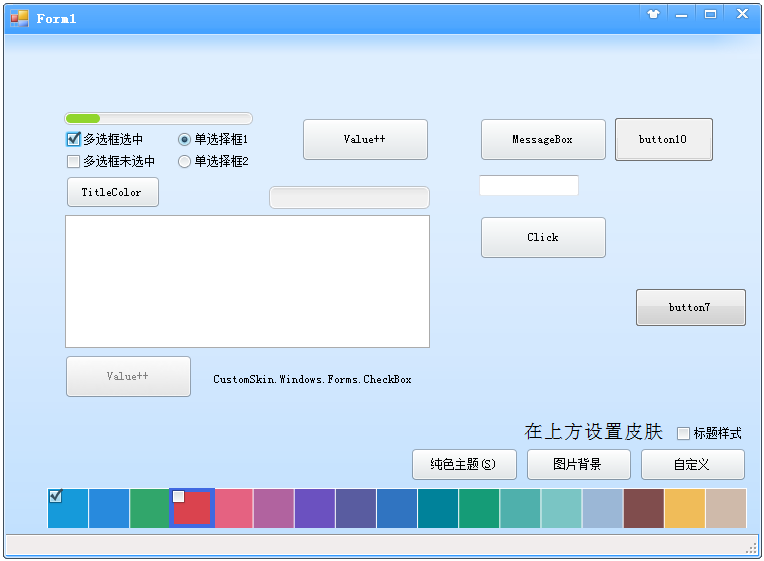
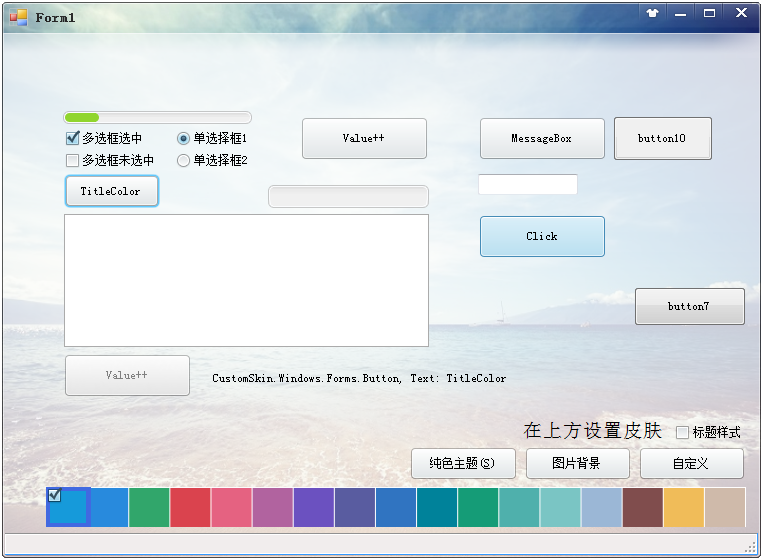
添加展示图片

diff --git a/CustomSkin/WindowsFormsApplication1/Properties/Resources.Designer.cs b/CustomSkin/WindowsFormsApplication1/Properties/Resources.Designer.cs
@@ -63,9 +63,9 @@ namespace WindowsFormsApplication1.Properties {
         /// <summary>
         ///   查找 System.Drawing.Bitmap 类型的本地化资源。
         /// </summary>
-        internal static System.Drawing.Bitmap _0435032 {
+        internal static System.Drawing.Bitmap _1 {
             get {
-                object obj = ResourceManager.GetObject("_0435032", resourceCulture);
+                object obj = ResourceManager.GetObject("_1", resourceCulture);
                 return ((System.Drawing.Bitmap)(obj));
             }
         }
@@ -73,9 +73,9 @@ namespace WindowsFormsApplication1.Properties {
         /// <summary>
         ///   查找 System.Drawing.Bitmap 类型的本地化资源。
         /// </summary>
-        internal static System.Drawing.Bitmap _11 {
+        internal static System.Drawing.Bitmap _2 {
             get {
-                object obj = ResourceManager.GetObject("_11", resourceCulture);
+                object obj = ResourceManager.GetObject("_2", resourceCulture);
                 return ((System.Drawing.Bitmap)(obj));
             }
         }
@@ -83,9 +83,9 @@ namespace WindowsFormsApplication1.Properties {
         /// <summary>
         ///   查找 System.Drawing.Bitmap 类型的本地化资源。
         /// </summary>
-        internal static System.Drawing.Bitmap _201111 {
+        internal static System.Drawing.Bitmap _3 {
             get {
-                object obj = ResourceManager.GetObject("_201111", resourceCulture);
+                object obj = ResourceManager.GetObject("_3", resourceCulture);
                 return ((System.Drawing.Bitmap)(obj));
             }
         }
@@ -93,9 +93,9 @@ namespace WindowsFormsApplication1.Properties {
         /// <summary>
         ///   查找 System.Drawing.Bitmap 类型的本地化资源。
         /// </summary>
-        internal static System.Drawing.Bitmap _2014052116301447990 {
+        internal static System.Drawing.Bitmap _4 {
             get {
-                object obj = ResourceManager.GetObject("_2014052116301447990", resourceCulture);
+                object obj = ResourceManager.GetObject("_4", resourceCulture);
                 return ((System.Drawing.Bitmap)(obj));
             }
         }
@@ -103,9 +103,9 @@ namespace WindowsFormsApplication1.Properties {
         /// <summary>
         ///   查找 System.Drawing.Bitmap 类型的本地化资源。
         /// </summary>
-        internal static System.Drawing.Bitmap _353321 {
+        internal static System.Drawing.Bitmap _5 {
             get {
-                object obj = ResourceManager.GetObject("_353321", resourceCulture);
+                object obj = ResourceManager.GetObject("_5", resourceCulture);
                 return ((System.Drawing.Bitmap)(obj));
             }
         }
@@ -113,9 +113,29 @@ namespace WindowsFormsApplication1.Properties {
         /// <summary>
         ///   查找 System.Drawing.Bitmap 类型的本地化资源。
         /// </summary>
-        internal static System.Drawing.Bitmap _503b6b1f7ce33 {
+        internal static System.Drawing.Bitmap _6 {
             get {
-                object obj = ResourceManager.GetObject("_503b6b1f7ce33", resourceCulture);
+                object obj = ResourceManager.GetObject("_6", resourceCulture);
+                return ((System.Drawing.Bitmap)(obj));
+            }
+        }
+        
+        /// <summary>
+        ///   查找 System.Drawing.Bitmap 类型的本地化资源。
+        /// </summary>
+        internal static System.Drawing.Bitmap _7 {
+            get {
+                object obj = ResourceManager.GetObject("_7", resourceCulture);
+                return ((System.Drawing.Bitmap)(obj));
+            }
+        }
+        
+        /// <summary>
+        ///   查找 System.Drawing.Bitmap 类型的本地化资源。
+        /// </summary>
+        internal static System.Drawing.Bitmap _8 {
+            get {
+                object obj = ResourceManager.GetObject("_8", resourceCulture);
                 return ((System.Drawing.Bitmap)(obj));
             }
         }
@@ -136,26 +156,6 @@ namespace WindowsFormsApplication1.Properties {
         internal static System.Drawing.Bitmap color {
             get {
                 object obj = ResourceManager.GetObject("color", resourceCulture);
-                return ((System.Drawing.Bitmap)(obj));
-            }
-        }
-        
-        /// <summary>
-        ///   查找 System.Drawing.Bitmap 类型的本地化资源。
-        /// </summary>
-        internal static System.Drawing.Bitmap d2fdsf3 {
-            get {
-                object obj = ResourceManager.GetObject("d2fdsf3", resourceCulture);
-                return ((System.Drawing.Bitmap)(obj));
-            }
-        }
-        
-        /// <summary>
-        ///   查找 System.Drawing.Bitmap 类型的本地化资源。
-        /// </summary>
-        internal static System.Drawing.Bitmap dfgfdg {
-            get {
-                object obj = ResourceManager.GetObject("dfgfdg", resourceCulture);
                 return ((System.Drawing.Bitmap)(obj));
             }
         }

diff --git a/CustomSkin/WindowsFormsApplication1/Form1.cs b/CustomSkin/WindowsFormsApplication1/Form1.cs
@@ -6,7 +6,7 @@ using CustomSkin.Windows.Forms;
 using WindowsFormsApplication1.Properties;
 
 namespace WindowsFormsApplication1
-{  
+{
     public partial class Form1 : FormBase
     {
         public Form1()
@@ -20,7 +20,7 @@ namespace WindowsFormsApplication1
             if (this.TitleColor == Color.Black)
                 this.TitleColor = Color.White;
             else
-                this.TitleColor = Color.Black; 
+                this.TitleColor = Color.Black;
         }
 
         private void button2_Click(object sender, EventArgs e)
@@ -51,14 +51,14 @@ namespace WindowsFormsApplication1
             //foreach (string str in Directory.GetFiles(Application.StartupPath + "\\Image", "*.*", SearchOption.AllDirectories))
             //    Res.Current.ImageList.Add(Image.FromFile(str));
             Res.Current.ImageList.AddRange(new Image[] { 
-            Resources._0435032,
-            Resources._11,
-            Resources._201111,
-            Resources._2014052116301447990,
-            Resources._353321,
-            Resources._503b6b1f7ce33,
-            Resources.d2fdsf3,
-            Resources.dfgfdg
+            Resources._1,
+            Resources._2,
+            Resources._3,
+            Resources._4,
+            Resources._5,
+            Resources._6,
+            Resources._7,
+            Resources._8
             });
             unitWidth = this.pictureBox1.Width / 17;
         }
@@ -109,6 +109,6 @@ namespace WindowsFormsApplication1
         private void button8_Click(object sender, EventArgs e)
         {
             this.Text = CustomSkin.Windows.Forms.MessageBox.Show("123", "", MessageBoxButtons.YesNoCancel, MessageBoxIcon.Information).ToString();
-        } 
+        }
     }
 }
